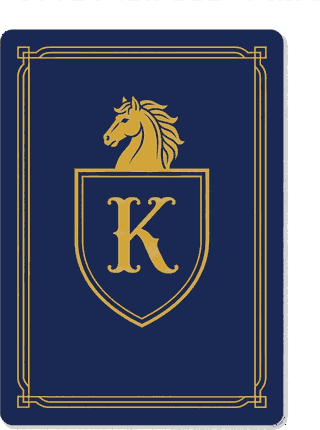
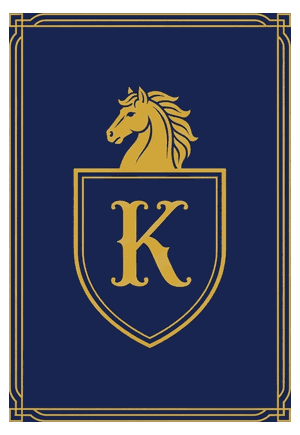
fix(cards): centre the crest on the card back
The first cut trimmed to any non-transparent pixel, so a halo of JPEG edge
artefacts counted as content: the navy card filled only (0,29)-(287,429) of
a 320x430 asset, leaving 32px dead on the right and 29px on top, which was
then stretched across the whole face. Crop to the gold frame instead - its
aspect is 0.6906 against the card 0.6897 - and centre it on a canvas cut to
the card ratio, so it neither offsets nor distorts. Rebuild the frame
interior as flat navy with the crest centred, since Gemini drew it high and
left a dead band along the bottom.

diff --git a/tools/rebuild_back.py b/tools/rebuild_back.py
@@ -1,0 +1,101 @@
+"""Rebuild the card back from the original Gemini sheet, centred properly.
+
+The first cut trimmed to any non-transparent pixel, so a halo of JPEG-edge
+artefacts around the card was kept as "content" - leaving the artwork sitting
+32px right and 29px top of where it belonged, and then stretched across the
+whole card face. This crops to the gold frame instead, which happens to share
+the card's aspect almost exactly (0.6906 vs 0.6897), and centres it on a canvas
+cut to the card's own ratio, so background-size:100% 100% neither offsets nor
+distorts it.
+"""
+from pathlib import Path
+from PIL import Image
+
+ROOT = Path(__file__).resolve().parent.parent
+ART = ROOT / "art"
+
+CARD_W, CARD_H = 300, 435          # exactly the 100x145 card ratio
+INSET = 0.94                       # frame fills this much of the card, centred
+
+sheet = next(ART.glob("Gemini_Generated_Image_*.jpg"))
+img = Image.open(sheet).convert("RGB")
+W, H = img.size
+quad = img.crop((W // 2, H // 2, W, H))            # back is the bottom-right cell
+qw, qh = quad.size
+px = quad.load()
+
+
+def is_gold(x, y):
+    r, g, b = px[x, y]
+    return r > 120 and g > 90 and b < 140 and r >= g > b
+
+
+# Bounding box of the gold frame (the element that must sit centred).
+xs, ys = [], []
+for y in range(qh):
+    for x in range(qw):
+        if is_gold(x, y):
+            xs.append(x)
+            ys.append(y)
+x0, x1, y0, y1 = min(xs), max(xs), min(ys), max(ys)
+fw, fh = x1 - x0 + 1, y1 - y0 + 1
+print(f"gold frame in quadrant: ({x0},{y0})-({x1},{y1})  {fw}x{fh}  aspect {fw/fh:.4f}")
+print(f"card aspect {CARD_W/CARD_H:.4f}")
+
+frame = quad.crop((x0, y0, x1 + 1, y1 + 1)).convert("RGBA")
+
+# --- centre the crest inside the frame -----------------------------------
+# Gemini drew the horse+shield high, leaving a dead navy band along the bottom.
+# Rebuild the interior as flat navy and paste the crest back dead centre.
+fpx = frame.load()
+
+
+def gold_at(x, y):
+    r, g, b = fpx[x, y][:3]
+    return r > 120 and g > 90 and b < 140 and r >= g > b
+
+
+# Inner edge of the frame band: last gold run within the first 15% of a mid row.
+mid = fh // 2
+band = 0
+for x in range(int(fw * 0.15)):
+    if gold_at(x, mid):
+        band = x
+band += max(3, int(fw * 0.012))
+
+ix0, iy0 = band, band
+ix1, iy1 = fw - band, fh - band
+
+# navy fill colour: sample well inside the interior, away from the crest
+navy = fpx[ix0 + 6, iy0 + 6][:3]
+
+cxs, cys = [], []
+for y in range(iy0, iy1):
+    for x in range(ix0, ix1):
+        if gold_at(x, y):
+            cxs.append(x)
+            cys.append(y)
+cx0, cx1, cy0, cy1 = min(cxs), max(cxs), min(cys), max(cys)
+pad = 4
+crest = frame.crop((max(ix0, cx0 - pad), max(iy0, cy0 - pad),
+                    min(ix1, cx1 + pad + 1), min(iy1, cy1 + pad + 1)))
+cw, ch = crest.size
+print(f"crest {cw}x{ch} was at y {cy0}-{cy1} in interior {iy0}-{iy1}"
+      f"  (centre {(cy0+cy1)//2} vs {(iy0+iy1)//2})")
+
+frame.paste(navy + (255,), (ix0, iy0, ix1, iy1))
+frame.paste(crest, ((fw - cw) // 2, iy0 + (iy1 - iy0 - ch) // 2))
+
+# Scale uniformly so the frame keeps its proportions, then centre it.
+scale = min(CARD_W * INSET / fw, CARD_H * INSET / fh)
+nw, nh = round(fw * scale), round(fh * scale)
+frame = frame.resize((nw, nh), Image.LANCZOS)
+
+canvas = Image.new("RGBA", (CARD_W, CARD_H), (0, 0, 0, 0))
+ox, oy = (CARD_W - nw) // 2, (CARD_H - nh) // 2
+canvas.paste(frame, (ox, oy))
+print(f"placed {nw}x{nh} at ({ox},{oy})  margins L/R={ox} T/B={oy}")
+
+out = canvas.quantize(colors=32, method=Image.Quantize.FASTOCTREE)
+out.save(ART / "back.png", optimize=True)
+print(f"wrote back.png  {CARD_W}x{CARD_H}  {(ART / 'back.png').stat().st_size // 1024} KB")

diff --git a/tools/inspect_back.py b/tools/inspect_back.py
@@ -1,0 +1,53 @@
+"""Measure the card-back asset: where the navy card, the gold frame and the
+crest emblem actually sit, so alignment can be fixed from numbers not guesswork."""
+from pathlib import Path
+from PIL import Image
+
+ART = Path(__file__).resolve().parent.parent / "art"
+img = Image.open(ART / "back.png").convert("RGBA")
+W, H = img.size
+px = img.load()
+
+def is_gold(p):
+    r, g, b, a = p
+    return a > 128 and r > 120 and g > 90 and b < 130 and r >= g > b
+
+def is_opaque(p):
+    return p[3] > 128
+
+def bbox(pred, x0=0, y0=0, x1=None, y1=None):
+    x1 = x1 or W; y1 = y1 or H
+    xs, ys = [], []
+    for y in range(y0, y1):
+        for x in range(x0, x1):
+            if pred(px[x, y]):
+                xs.append(x); ys.append(y)
+    if not xs:
+        return None
+    return min(xs), min(ys), max(xs), max(ys)
+
+print(f"image           {W}x{H}   aspect {W/H:.4f}")
+print(f"card aspect     100x145   aspect {100/145:.4f}")
+print(f"stretch applied {(100/145)/(W/H):.4f}  (horizontal squash by background-size:100% 100%)")
+
+card = bbox(is_opaque)
+print(f"\nnavy card bbox  {card}  -> {card[2]-card[0]+1}x{card[3]-card[1]+1}")
+print(f"  margins  L={card[0]} R={W-1-card[2]} T={card[1]} B={H-1-card[3]}")
+
+gold = bbox(is_gold)
+print(f"\ngold (all) bbox {gold}")
+print(f"  frame margins from card edge:"
+      f"  L={gold[0]-card[0]} R={card[2]-gold[2]} T={gold[1]-card[1]} B={card[3]-gold[3]}")
+
+# emblem only: look strictly inside the frame band
+inset_x = gold[0] + int(0.10 * W)
+inset_y = gold[1] + int(0.07 * H)
+emb = bbox(is_gold, inset_x, inset_y, gold[2] - int(0.10 * W), gold[3] - int(0.07 * H))
+print(f"\nemblem bbox     {emb}  -> {emb[2]-emb[0]+1}x{emb[3]-emb[1]+1}")
+ecx = (emb[0] + emb[2]) / 2
+ecy = (emb[1] + emb[3]) / 2
+ccx = (card[0] + card[2]) / 2
+ccy = (card[1] + card[3]) / 2
+print(f"  emblem centre {ecx:.1f},{ecy:.1f}   card centre {ccx:.1f},{ccy:.1f}")
+print(f"  OFFSET        dx={ecx-ccx:+.1f}px ({(ecx-ccx)/W*100:+.1f}% of width)"
+      f"  dy={ecy-ccy:+.1f}px ({(ecy-ccy)/H*100:+.1f}% of height)")
